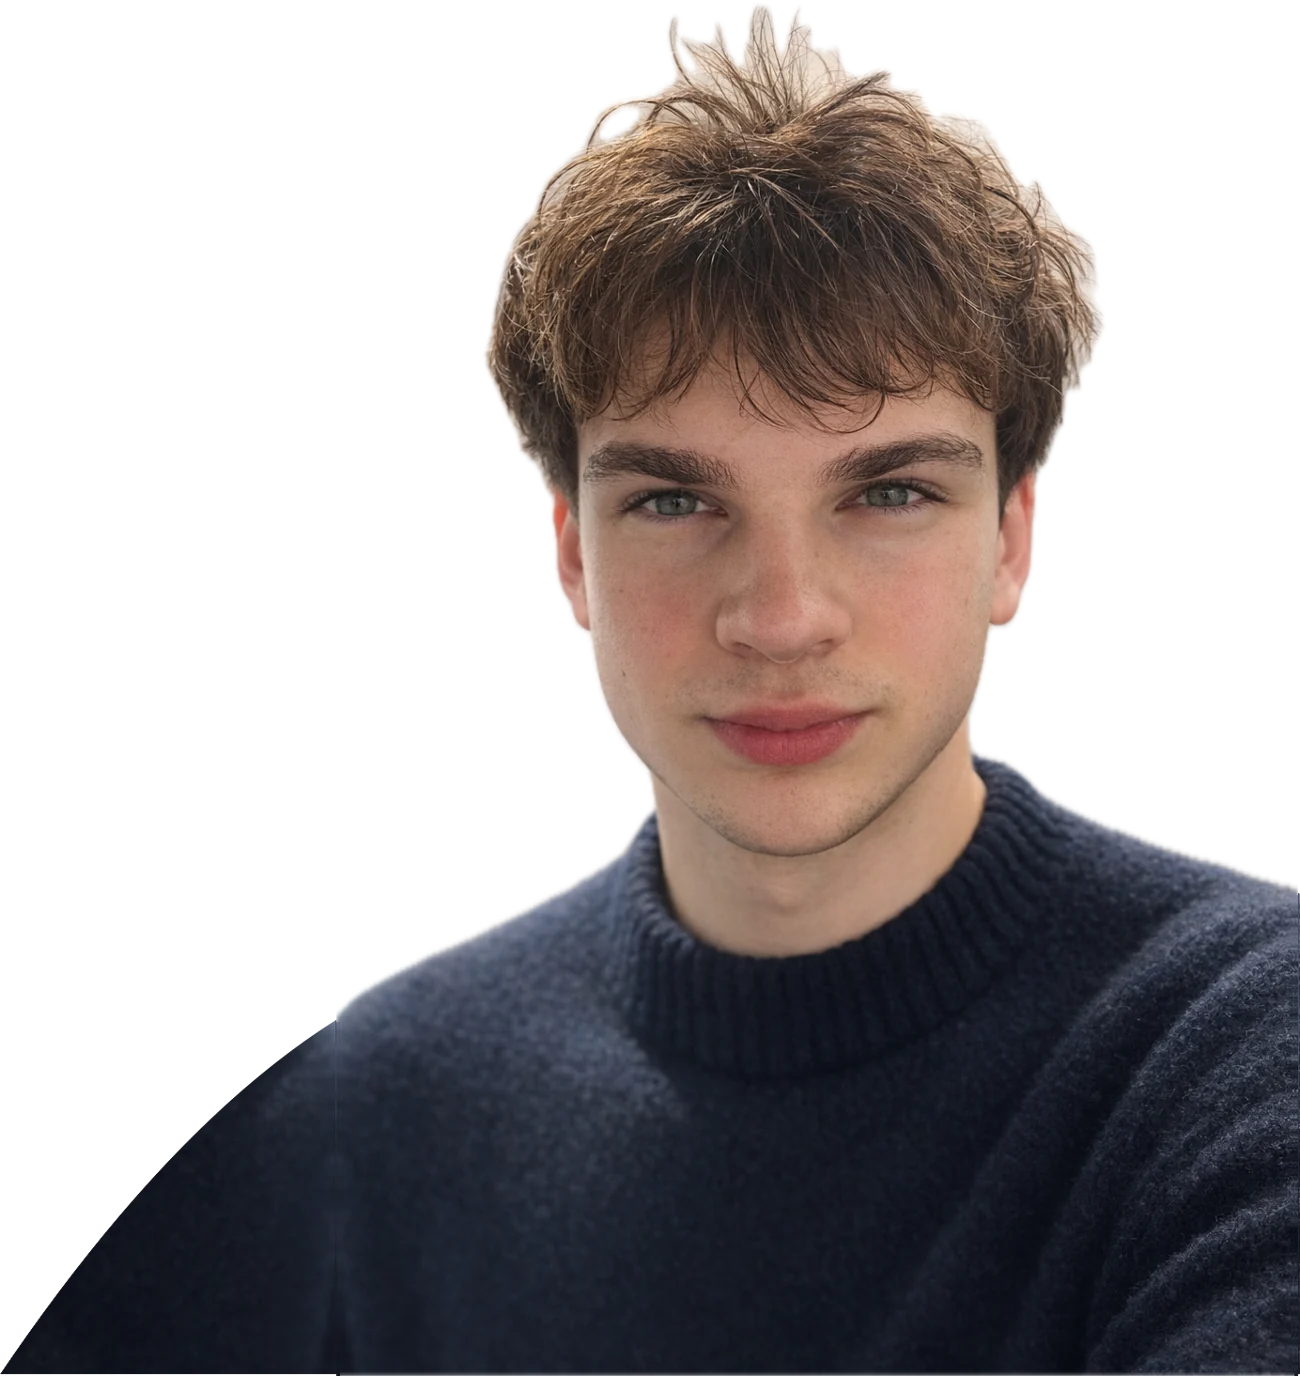
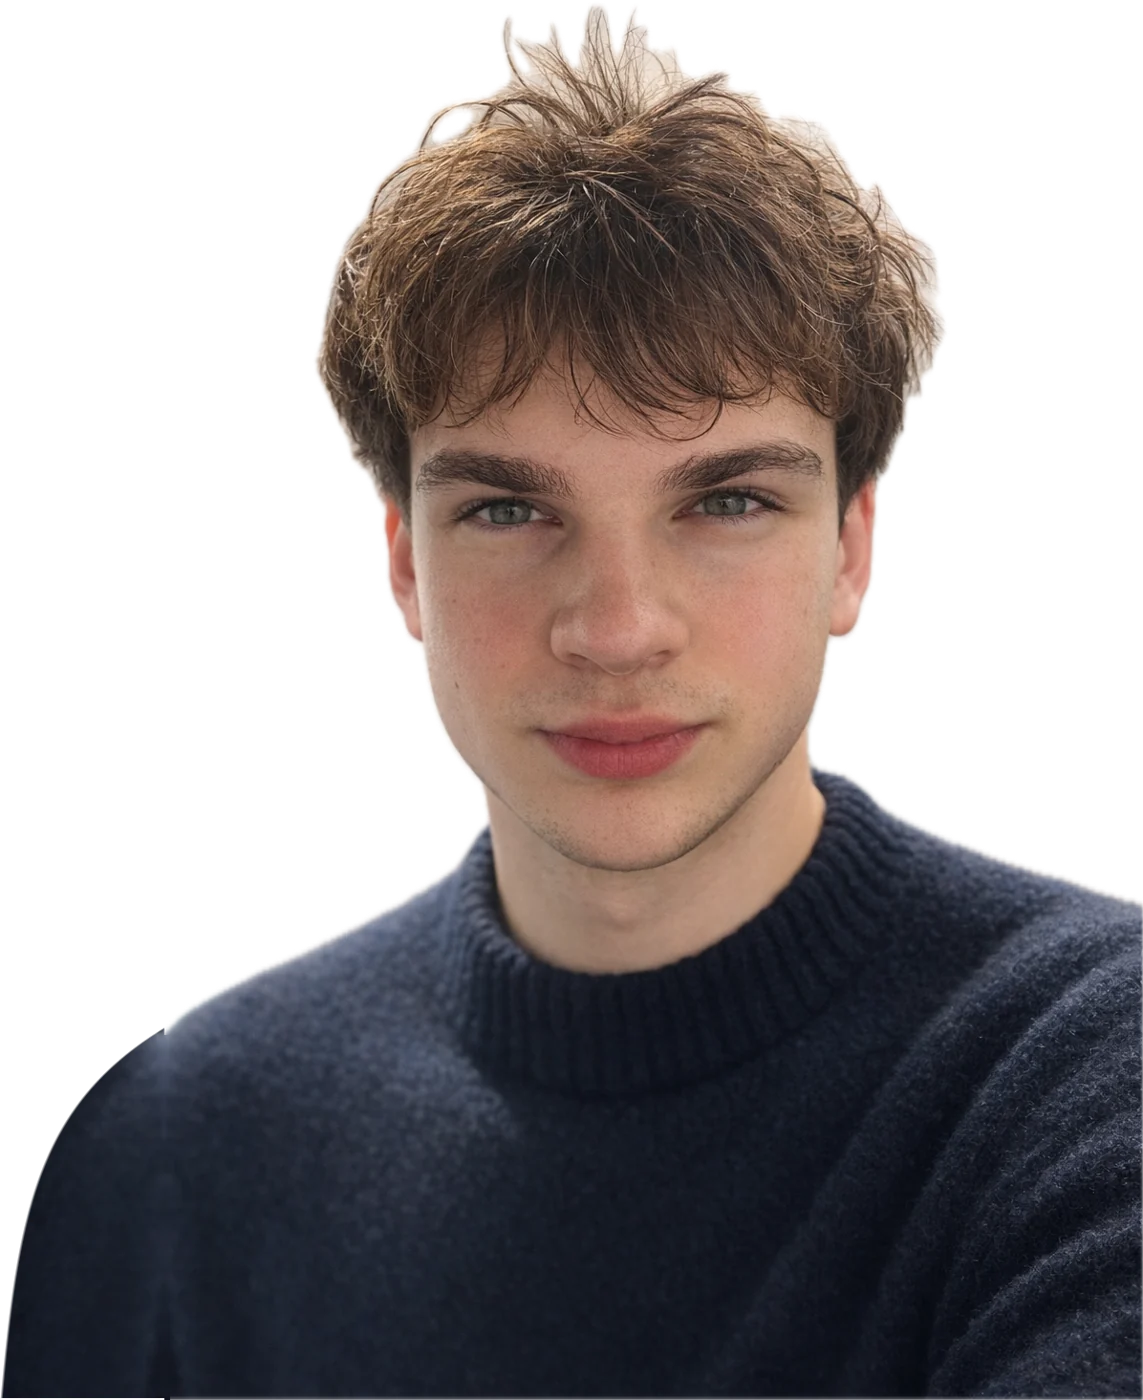
fix: épaule du portrait refaite avec une forme réaliste

diff --git a/src/components/parcours/ParcoursHeader.tsx b/src/components/parcours/ParcoursHeader.tsx
@@ -10,7 +10,7 @@ export function ParcoursHeader() {
       <BigTitle as="h1" className="pc-head__title">
         Parcours
       </BigTitle>
-      <img className="pc-head__portrait" src={site.portrait.src} alt={site.portrait.alt} width={1300} height={1376} />
+      <img className="pc-head__portrait" src={site.portrait.src} alt={site.portrait.alt} width={1195} height={1465} />
     </header>
   );
 }

diff --git a/src/styles/parcours.css b/src/styles/parcours.css
@@ -31,7 +31,7 @@
   position: absolute;
   right: 0;
   bottom: 0;
-  width: 34.5cqw;
+  width: 29.8cqw;
   height: auto;
 }
 
